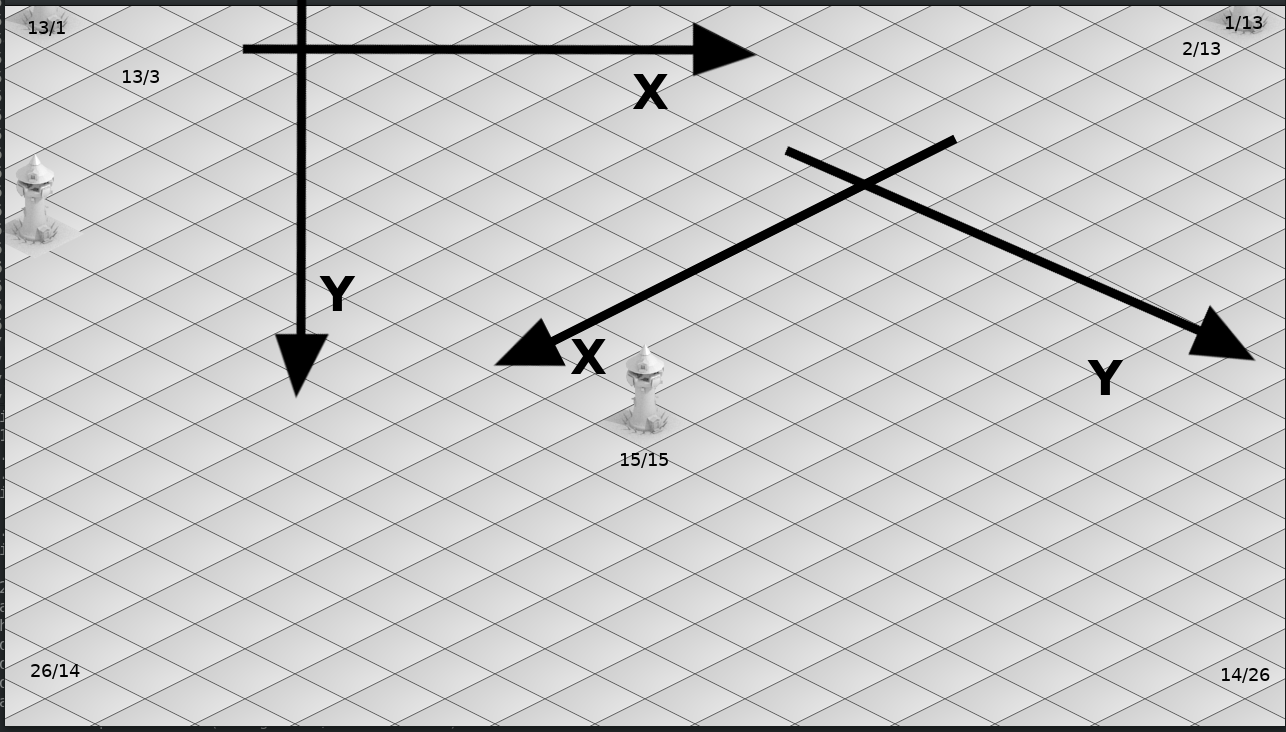
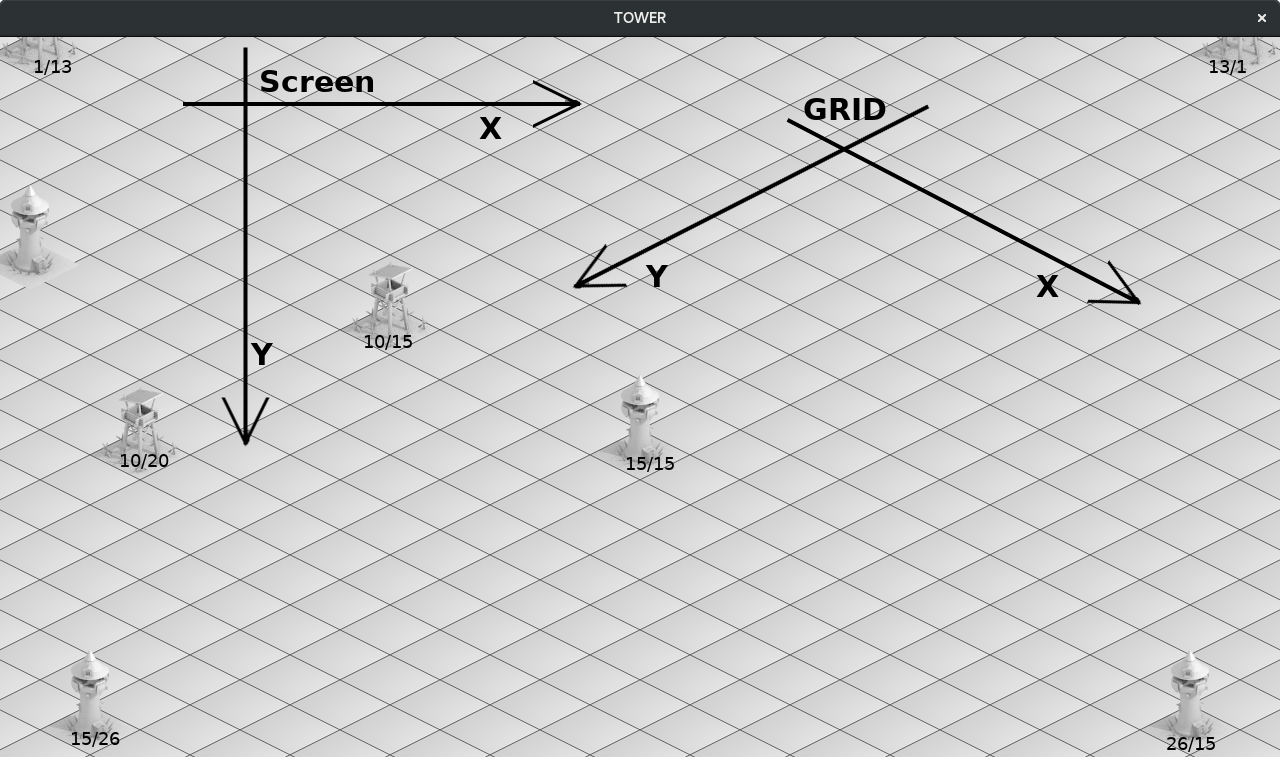
change axis X & Y direction

diff --git a/src/main.cpp b/src/main.cpp
@@ -122,8 +122,11 @@ while(!quit)
 					yClicLeft = event.button.y;
 					cout << "x:" << xClicLeft << " y:" << yClicLeft << endl;
 					//find the match point into the grid
-					yClicTable = 1 + (xClicLeft / TILE_HALF_WIDTH + yClicLeft / TILE_HALF_HEIGHT) /2;
-					xClicTable = 13 + (yClicLeft / TILE_HALF_HEIGHT - xClicLeft / TILE_HALF_WIDTH) /2;
+					int xOffset = (C_Settings::getWindowWidth() /2);
+					int yOffset = (C_Settings::getWindowHeight() /2);
+					//cout << "x:" << xClicLeft << " y:" << yClicLeft << "with offset\n";
+					yClicTable = ( ((yClicLeft + yOffset )/TILE_HALF_HEIGHT - (xClicLeft - xOffset) / TILE_HALF_WIDTH )/2);
+					xClicTable = ( ((xClicLeft - xOffset ) / TILE_HALF_WIDTH + (yClicLeft + yOffset)/TILE_HALF_HEIGHT )/2);
 					cout << "x:" << xClicTable << " y:" << yClicTable << endl;
 					if(towerSelected == true && grid_units[xClicTable][yClicTable] == nullptr) {
 						grid_units[xClicTable][yClicTable] = new C_Towers(renderer,1);

diff --git a/src/surfaces.cpp b/src/surfaces.cpp
@@ -84,8 +84,8 @@ void displayGridContent(SDL_Renderer *renderer,
 	size_t const gridSize = C_Settings::getGridSize();
 	for (size_t y = 0; y < gridSize; y++){
 		for (size_t x = 0; x < gridSize; x++){
-			int y_iso = (x + y) * TILE_HALF_HEIGHT - C_Settings::getWindowHeight()/2;
-			int x_iso = C_Settings::getWindowWidth() /2 + (y - x) * TILE_HALF_WIDTH;
+			int x_iso = C_Settings::getWindowWidth()/2 + (x - y)* TILE_HALF_WIDTH;
+			int y_iso = (y + x) * TILE_HALF_HEIGHT - C_Settings::getWindowHeight()/2  ;
 			if (grid_units[x][y] != nullptr){
 				//cout << "x:"<< x_iso << " y:" << y_iso << endl;
 				switch(grid_units[x][y]->getRank()){
